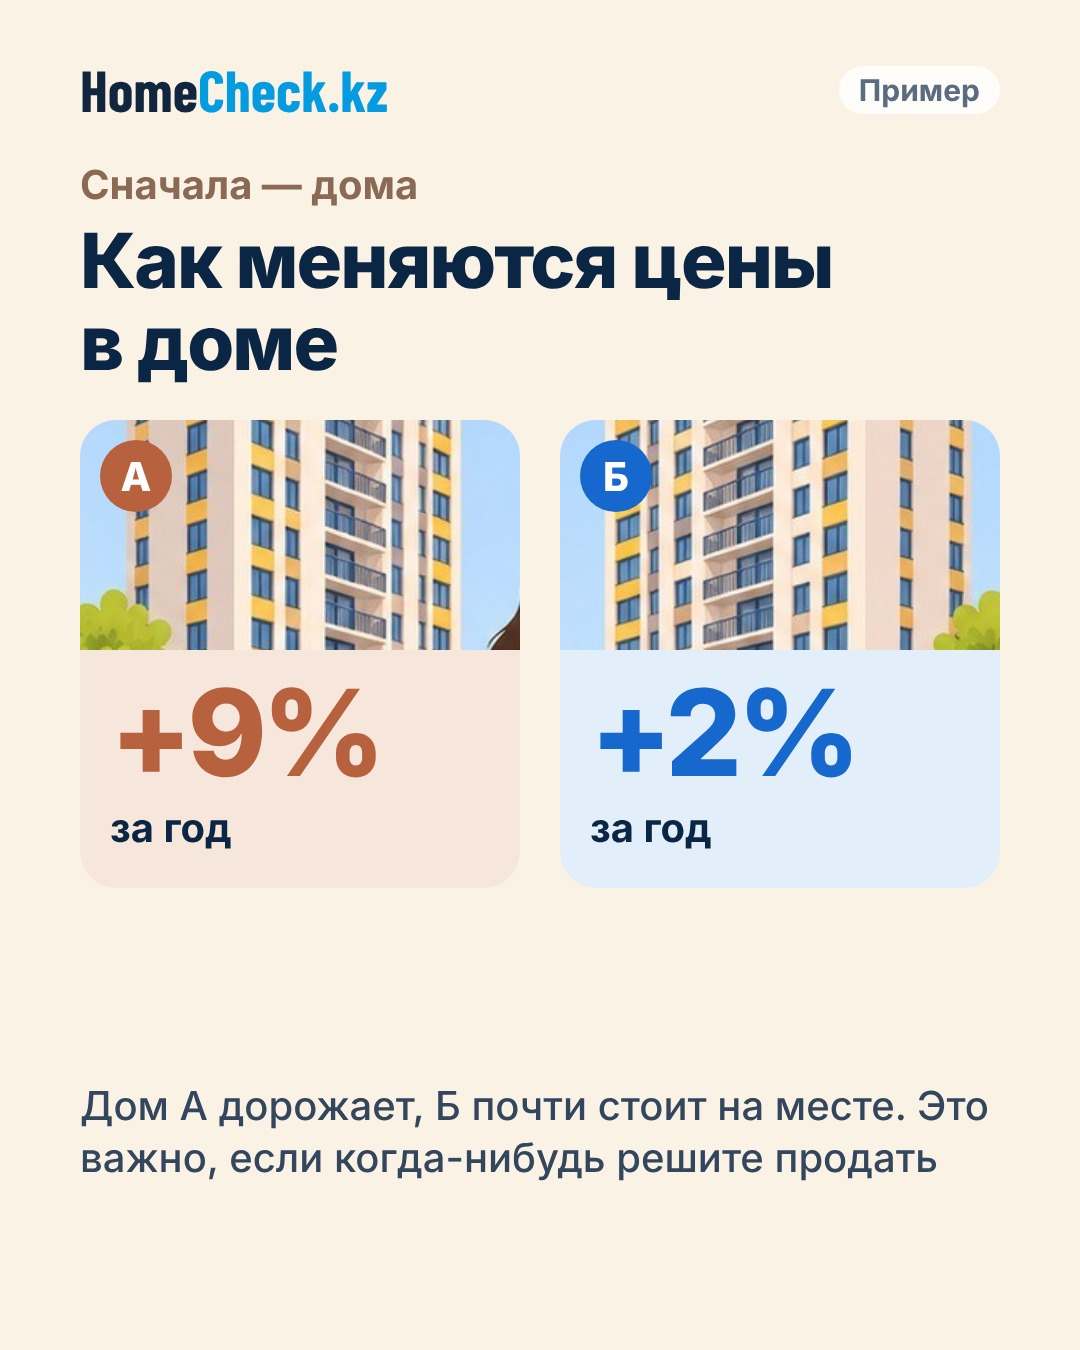
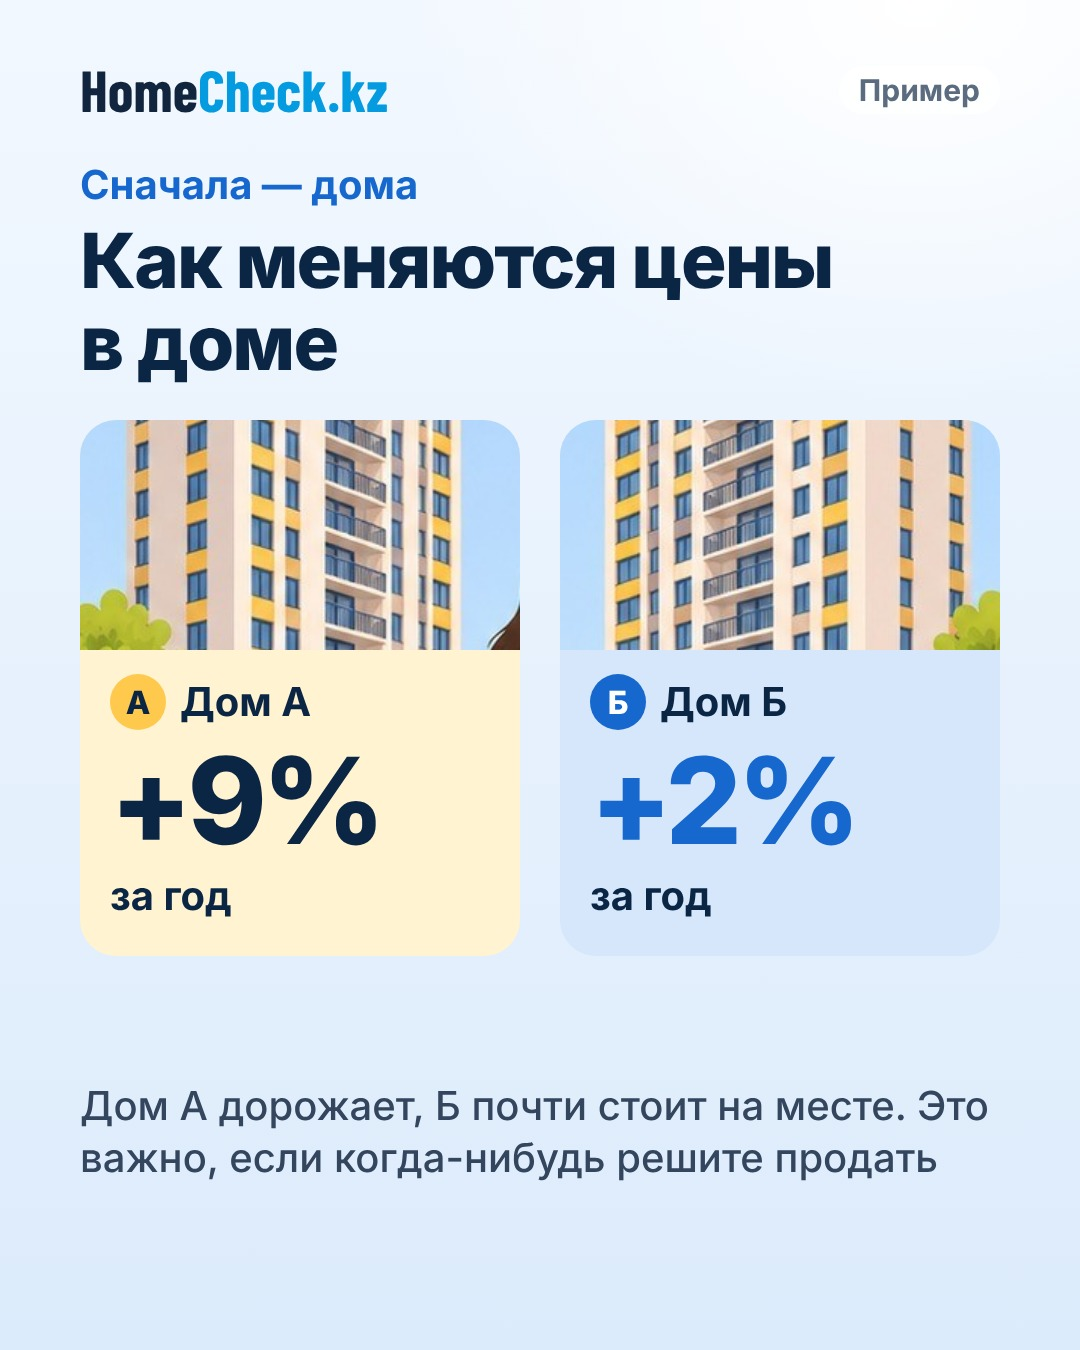
Две квартиры: фирменная палитра (А жёлтый, Б синий), метки вне картинок, без лишней строки
Claude-Session: https://claude.ai/code/session_01YPTRhbcfXRBnSeVtmn8ipe

diff --git a/posts/2026-11-23-dve-kvartiry/build.py b/posts/2026-11-23-dve-kvartiry/build.py
@@ -1,6 +1,6 @@
 """Пост «Две похожие квартиры в соседних домах» (пн 23.11.2026). Рубрика «Люди и ситуации».
 Иллюстрации — ChatGPT (команда), героиня та же, что в Reels «Тогда и сейчас»; метка ИИ.
-Цифры — пример (пометка «Пример»). А — терракотовый, Б — синий. Типографика: 76 / 120 / 40."""
+Цифры — пример (пометка «Пример»). Фирменная палитра: А — жёлтый, Б — синий. Типографика: 76 / 120 / 40."""
 import sys, pathlib
 sys.path.insert(0, str(pathlib.Path(__file__).resolve().parents[2] / 'templates'))
 from playwright.sync_api import sync_playwright
@@ -8,16 +8,19 @@ from render import FONT_LOGO_URI, render, data_uri
 from PIL import Image
 
 HERE = pathlib.Path(__file__).resolve().parent
-NAVY, BLUE, TERRA, CREAM = '#0B2545', '#1768CE', '#B8613F', '#FBF2E6'
-COL = {'А': TERRA, 'Б': BLUE}
-TINT = {'А': '#F7E6DB', 'Б': '#E3EEFB'}
+NAVY, BLUE, YEL, CREAM = '#0B2545', '#1768CE', '#FFC94D', '#EAF4FF'
+TERRA = NAVY
+COL = {'А': YEL, 'Б': BLUE}
+NUM = {'А': NAVY, 'Б': BLUE}
+FG = {'А': NAVY, 'Б': '#FFFFFF'}
+TINT = {'А': '#FFF3D1', 'Б': '#D6E7FB'}
 IMG = {n: data_uri(Image.open(HERE / 'src' / f'{n}.jpg')) for n in
        ['houses', 'flat_a', 'flat_b', 'house_a', 'house_b', 'surprised', 'window']}
 
 CSS = f"""
 @font-face{{font-family:'Barlow Condensed';font-weight:700;src:url('{FONT_LOGO_URI}')}}
 *{{box-sizing:border-box}} body{{margin:0}}
-.s{{position:relative;width:1080px;height:1350px;overflow:hidden;font-family:Inter,sans-serif;color:{NAVY};background:{CREAM}}}
+.s{{position:relative;width:1080px;height:1350px;overflow:hidden;font-family:Inter,sans-serif;color:{NAVY};background:radial-gradient(80% 50% at 85% 0%,#FFFFFF 0%,rgba(255,255,255,0) 60%),linear-gradient(180deg,#F2F8FF 0%,#DCEBFB 100%)}}
 .logo{{position:absolute;left:80px;top:60px;font-family:'Barlow Condensed';font-size:58px;font-weight:700;line-height:1;z-index:5}}
 .logo .h{{color:#12253E}} .logo .c{{color:#049BE1}}
 .ex{{position:absolute;right:80px;top:66px;z-index:5;font-size:30px;font-weight:700;color:#5B6B80;background:rgba(255,255,255,.8);border-radius:999px;padding:6px 20px}}
@@ -39,7 +42,7 @@ def page(inner, ex=False):
 
 
 def badge(k, size=84, fs=48):
-    return f'<span class="badge" style="background:{COL[k]};width:{size}px;height:{size}px;font-size:{fs}px">{k}</span>'
+    return f'<span class="badge" style="background:{COL[k]};color:{FG[k]};width:{size}px;height:{size}px;font-size:{fs}px">{k}</span>'
 
 
 # 1 — обложка: картинка на весь слайд, текст в небе, метки А и Б на домах
@@ -52,24 +55,24 @@ S1 = page(f'<img src="{IMG["houses"]}" style="position:absolute;inset:0;width:10
 # 2 — две квартиры рядом
 def flat(k, img, rows):
     r = ''.join(f'<p class="p" style="padding:14px 0;border-top:2px solid rgba(11,37,69,.08)">{x}</p>' for x in rows)
-    return (f'<div style="width:440px"><div class="card" style="height:440px"><img src="{IMG[img]}" style="width:100%;height:100%;object-fit:cover">'
-            f'<div style="position:absolute;left:20px;top:20px">{badge(k)}</div></div><div style="margin-top:18px">{r}</div></div>')
+    return (f'<div style="width:440px"><div style="display:flex;align-items:center;gap:18px;margin-bottom:18px">{badge(k, 64, 36)}<span class="p b">Квартира {k}</span></div>'
+            f'<div class="card" style="height:400px"><img src="{IMG[img]}" style="width:100%;height:100%;object-fit:cover"></div><div style="margin-top:14px">{r}</div></div>')
 
 S2 = page(f'<div class="col" style="top:170px"><h2 class="t">Цена одинаковая — 40&nbsp;млн&nbsp;₸</h2>'
           f'<p class="p" style="margin-top:14px">Обе: 64&nbsp;м², 2&nbsp;комнаты</p></div>'
-          f'<div class="col" style="top:400px;display:flex;justify-content:space-between">'
+          f'<div class="col" style="top:430px;display:flex;justify-content:space-between">'
           + flat('А', 'flat_a', ['<b class=b>5-й</b> этаж', 'Вид <b class=b>во двор</b>', 'Ремонт <b class=b>5&nbsp;лет назад</b>'])
           + flat('Б', 'flat_b', ['<b class=b>11-й</b> этаж', 'Вид <b class=b>на парк</b>', 'Ремонт <b class=b>свежий</b>'])
           + '</div>', ex=True)
 
 # 3 — ваш выбор
 S3 = page(f'<div class="col" style="top:170px;display:flex;justify-content:space-between">'
-          + ''.join(f'<div class="card" style="width:440px;height:560px"><img src="{IMG[i]}" style="width:100%;height:100%;object-fit:cover">'
-                    f'<div style="position:absolute;inset:0;display:flex;align-items:center;justify-content:center">{badge(k, 200, 120)}</div></div>'
+          + ''.join(f'<div style="width:440px"><div style="display:flex;justify-content:center;margin-bottom:22px">{badge(k, 120, 72)}</div>'
+                    f'<div class="card" style="height:440px"><img src="{IMG[i]}" style="width:100%;height:100%;object-fit:cover"></div></div>'
                     for k, i in [('А', 'flat_a'), ('Б', 'flat_b')])
           + '</div>'
-          f'<div class="col" style="top:800px"><h2 class="t">Ваш выбор?</h2>'
-          f'<p class="p" style="margin-top:22px">Напишите в&nbsp;комментариях: <b style="color:{TERRA}">А</b> или <b style="color:{BLUE}">Б</b>.</p>'
+          f'<div class="col" style="top:820px"><h2 class="t">Ваш выбор?</h2>'
+          f'<p class="p" style="margin-top:22px">Напишите в&nbsp;комментариях: <b style="color:#C98F00">А</b> или <b style="color:{BLUE}">Б</b>.</p>'
           f'<p class="p b" style="margin-top:14px">А теперь посмотрим, что скажут данные →</p></div>')
 
 
@@ -78,11 +81,11 @@ def versus(section, title, a, b, line, thumbs=('house_a', 'house_b')):
     def side(k, v, th):
         n, u = v
         return (f'<div class="card" style="width:440px;background:{TINT[k]};padding:0 0 34px">'
-                f'<div style="height:230px;position:relative"><img src="{IMG[th]}" style="width:100%;height:100%;object-fit:cover">'
-                f'<div style="position:absolute;left:20px;top:20px">{badge(k, 72, 40)}</div></div>'
-                f'<div style="padding:26px 30px 0"><div class="n" style="color:{COL[k]}">{n}</div>'
+                f'<div style="height:230px;position:relative"><img src="{IMG[th]}" style="width:100%;height:100%;object-fit:cover"></div>'
+                f'<div style="padding:24px 30px 0"><div style="display:flex;align-items:center;gap:14px;margin-bottom:14px">{badge(k, 56, 32)}<span class="p b">{"Дом" if th.startswith("house") else "Квартира"} {k}</span></div>'
+                f'<div class="n" style="color:{NUM[k]}">{n}</div>'
                 f'<p class="p b" style="margin-top:12px">{u}</p></div></div>')
-    return page(f'<div class="col" style="top:160px"><p class="lab" style="color:#8A6A55">{section}</p><h2 class="t">{title}</h2></div>'
+    return page(f'<div class="col" style="top:160px"><p class="lab" style="color:#1768CE">{section}</p><h2 class="t">{title}</h2></div>'
                 f'<div class="col" style="top:420px;display:flex;justify-content:space-between;align-items:stretch">{side("А", a, thumbs[0])}{side("Б", b, thumbs[1])}</div>'
                 f'<p class="p col" style="top:1080px">{line}</p>', ex=True)
 
@@ -94,13 +97,12 @@ S5 = versus('Сначала — дома', 'Как меняются цены в&
 S6 = versus('Сначала — дома', 'Как часто здесь перепродают', ('1 из 20', 'квартир за год'), ('1 из 7', 'квартир за год'),
             'Если в&nbsp;доме часто продают, стоит узнать почему')
 S7 = versus('Теперь — квартиры', 'История самих квартир', ('7 лет', 'одни владельцы'), ('2 раза', 'продавали за&nbsp;3&nbsp;года'),
-            'Квартиру Б в&nbsp;последний раз купили за&nbsp;35&nbsp;млн&nbsp;₸ — сейчас за&nbsp;неё просят на&nbsp;5&nbsp;млн больше',
-            thumbs=('flat_a', 'flat_b'))
+            '', thumbs=('flat_a', 'flat_b'))
 
 # 8 — что получается
 S8 = page(f'<img src="{IMG["surprised"]}" style="position:absolute;left:0;top:0;width:1080px;height:640px;object-fit:cover;object-position:50% 35%">'
-          f'<div style="position:absolute;left:0;top:0;width:1080px;height:200px;z-index:2;background:linear-gradient(180deg,rgba(251,242,230,.9),rgba(251,242,230,0))"></div>'
-          f'<div style="position:absolute;left:0;top:420px;width:1080px;height:230px;z-index:2;background:linear-gradient(180deg,rgba(251,242,230,0),{CREAM})"></div>'
+          f'<div style="position:absolute;left:0;top:0;width:1080px;height:200px;z-index:2;background:linear-gradient(180deg,rgba(242,248,255,.9),rgba(242,248,255,0))"></div>'
+          f'<div style="position:absolute;left:0;top:420px;width:1080px;height:230px;z-index:2;background:linear-gradient(180deg,rgba(230,241,253,0),#E6F1FD)"></div>'
           f'<div class="col" style="top:600px"><h2 class="t">Что получается</h2>'
           f'<div style="display:flex;gap:26px;margin-top:34px;align-items:flex-start">{badge("А", 72, 40)}'
           f'<p class="p" style="flex:1">Цена близка к&nbsp;сделкам в&nbsp;доме, дом дорожает, история понятная</p></div>'
@@ -109,7 +111,7 @@ S8 = page(f'<img src="{IMG["surprised"]}" style="position:absolute;left:0;top:0;
 
 # 9 — финал: картинка на весь слайд, текст в небе
 S9 = page(f'<img src="{IMG["window"]}" style="position:absolute;inset:0;width:1080px;height:1350px;object-fit:cover;object-position:40% 50%">'
-          f'<div style="position:absolute;left:0;top:0;width:1080px;height:640px;z-index:2;background:linear-gradient(180deg,rgba(251,242,230,.95) 0%,rgba(251,242,230,.85) 60%,rgba(251,242,230,0) 100%)"></div>'
+          f'<div style="position:absolute;left:0;top:0;width:1080px;height:640px;z-index:2;background:linear-gradient(180deg,rgba(242,248,255,.95) 0%,rgba(242,248,255,.85) 60%,rgba(242,248,255,0) 100%)"></div>'
           f'<div class="col" style="top:170px"><h2 class="t">Выбирайте квартиру не&nbsp;только глазами</h2>'
           f'<p class="p b" style="margin-top:22px">Сравните дом и&nbsp;квартиру по&nbsp;данным на&nbsp;<span style="color:{BLUE}">homecheck.kz</span></p></div>')
 
